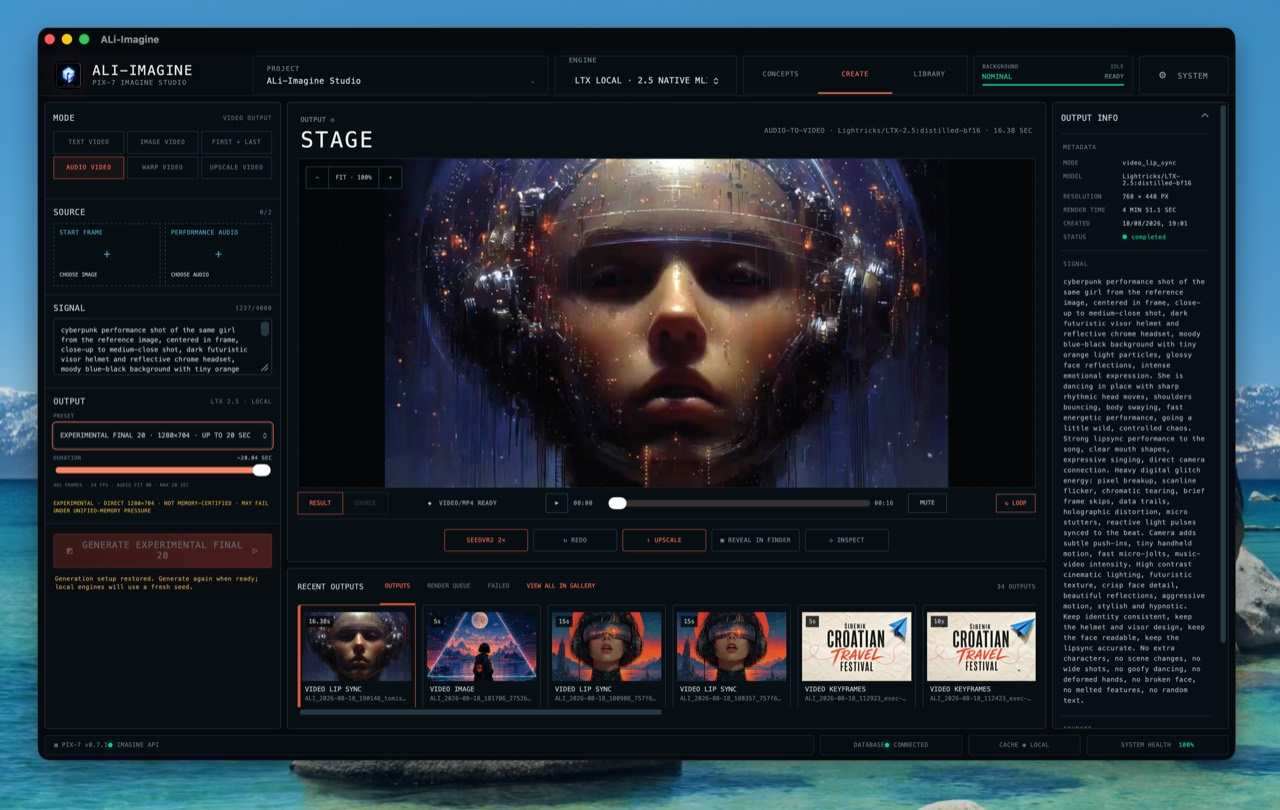
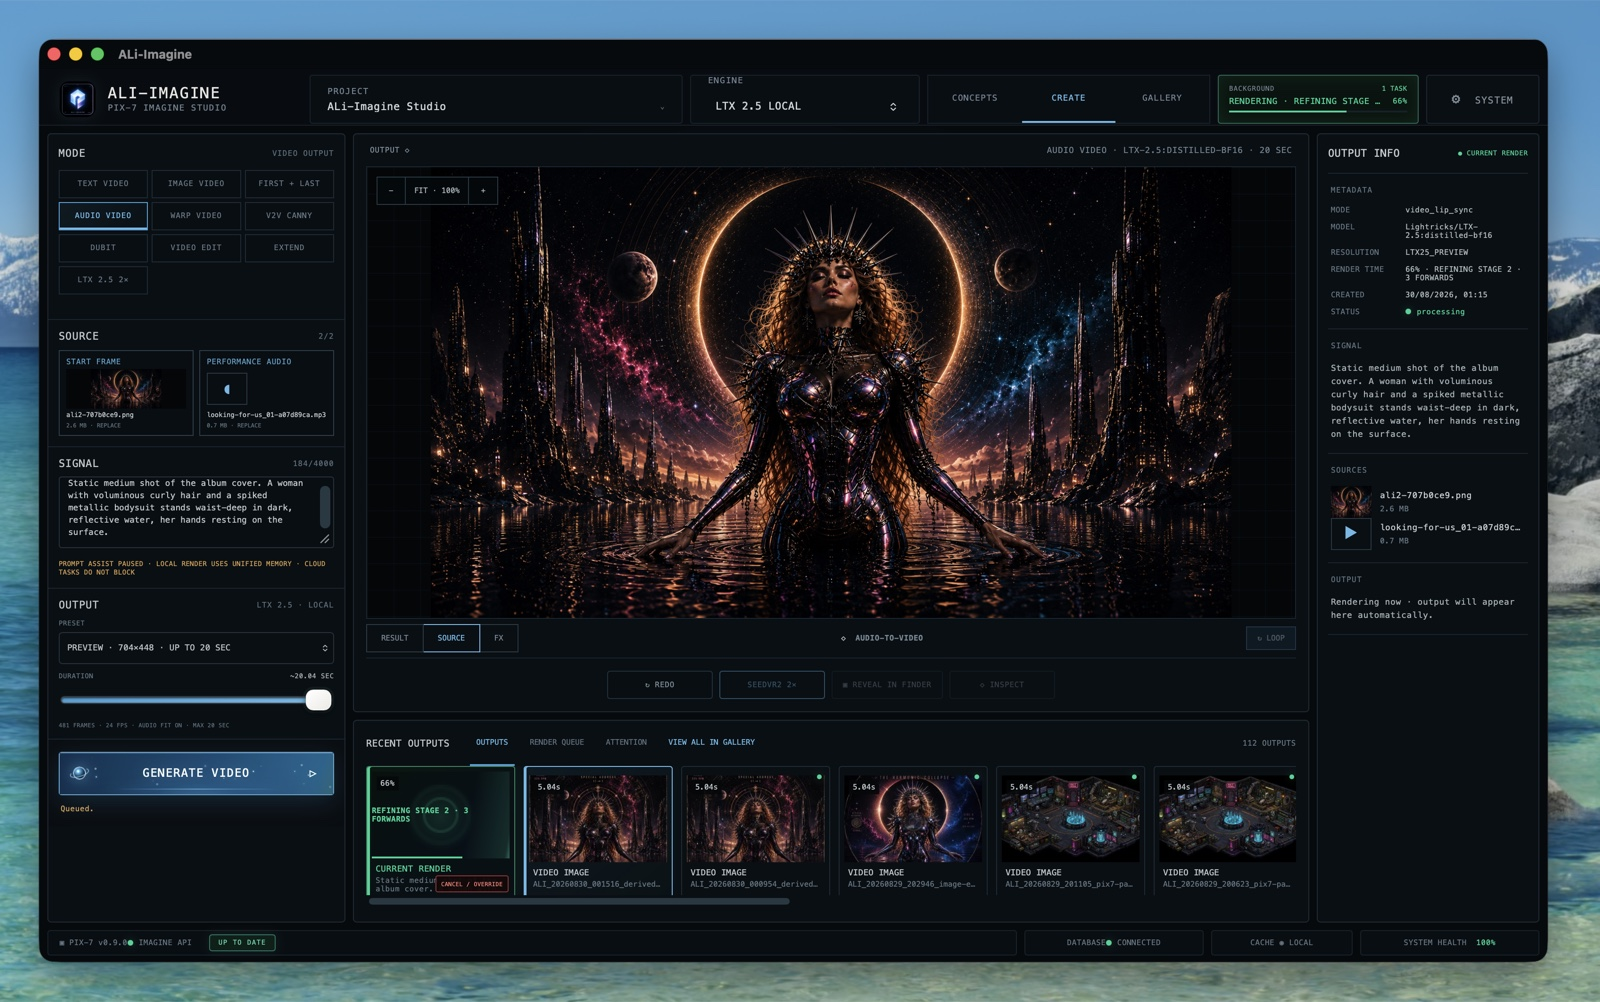
feat: refresh studio hero screenshot

diff --git a/index.html b/index.html
@@ -109,9 +109,9 @@
         <figure class="studio-shot studio-shot-primary reveal">
           <img
             src="assets/studio-ltx-overview.jpg"
-            alt="ALi Imagine running an LTX 2.5 audio-to-video project on a clean macOS desktop"
-            width="1280"
-            height="810"
+            alt="ALi Imagine running a 20-second LTX 2.5 local audio-to-video render with the result, source frame, performance audio, and render progress visible"
+            width="1600"
+            height="1002"
           />
           <figcaption>
             <span>LTX 2.5 // LOCAL MLX</span>
